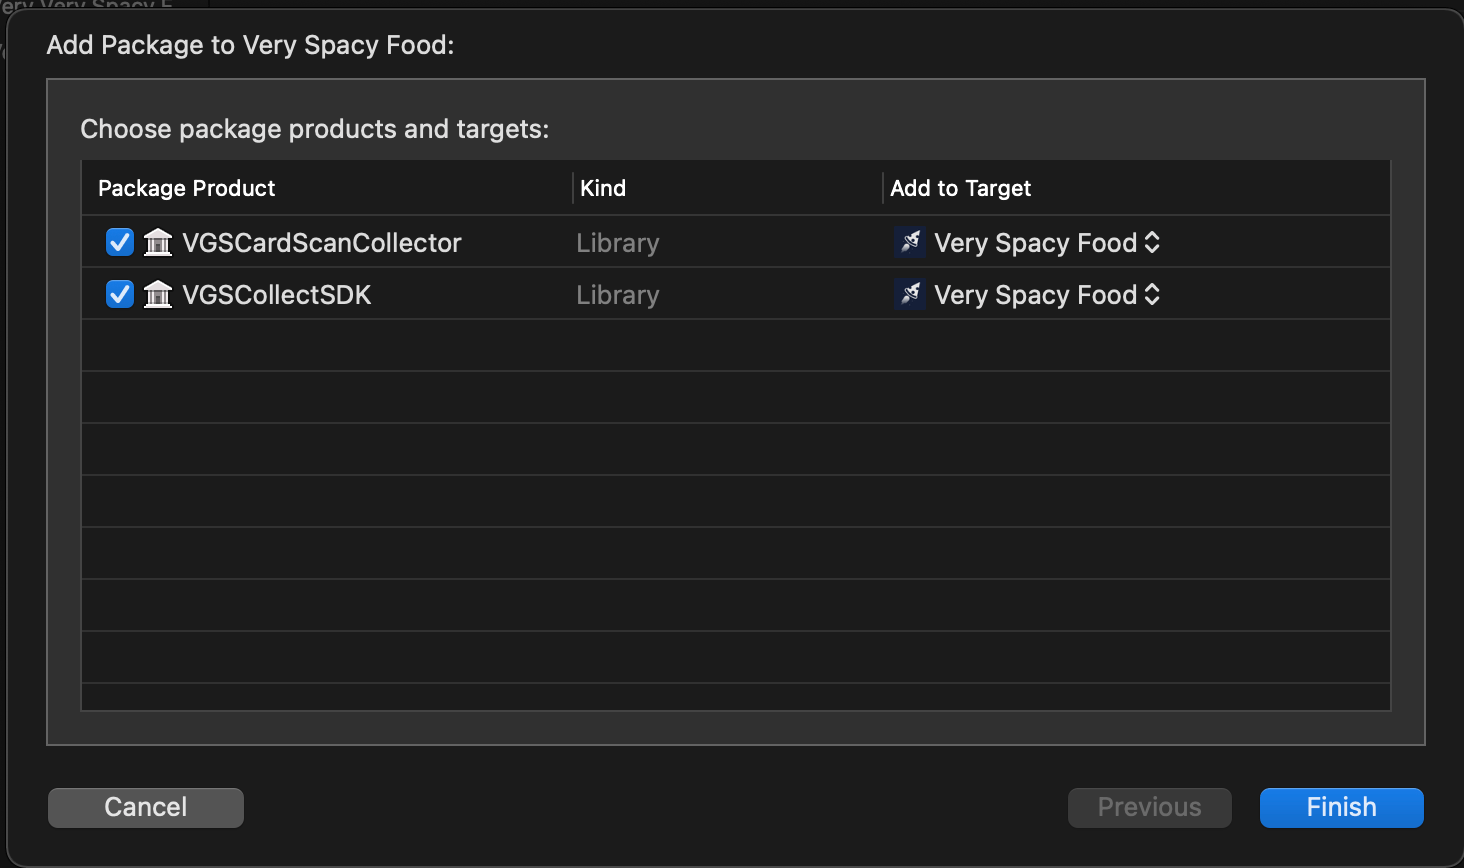
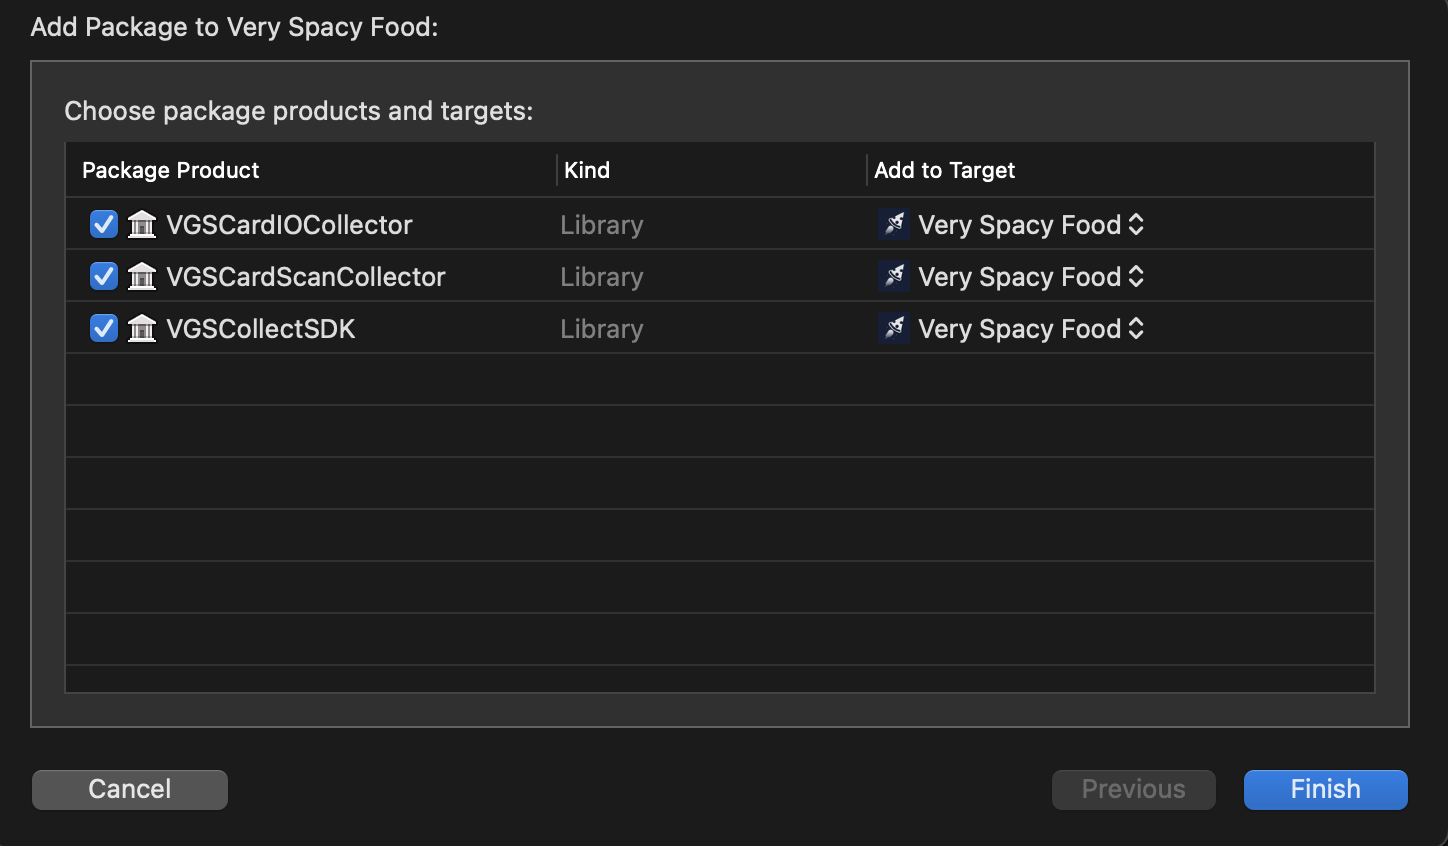
Update readme and images

diff --git a/README.md b/README.md
@@ -258,6 +258,10 @@ Starting with the 1.7.4 release, `VGSCollectSDK` also supports  [CardScan](https
 
 To use **CardScan** add `VGSCollectSDK`, `VGSCardScanCollector` packages to your target. 
 
+Starting with the 1.7.11 release, `VGSCollectSDK` supports  [CardIO](https://github.com/verygoodsecurity/card.io-iOS-source) integration via Swift PM.
+
+To use **CardIO** add `VGSCollectSDK`, `VGSCardIOCollector` packages to your target. 
+
 #### Integrate with Carthage
 
 Carthage users should point to `VGSCollectSDK` repository and use next generated framework:
